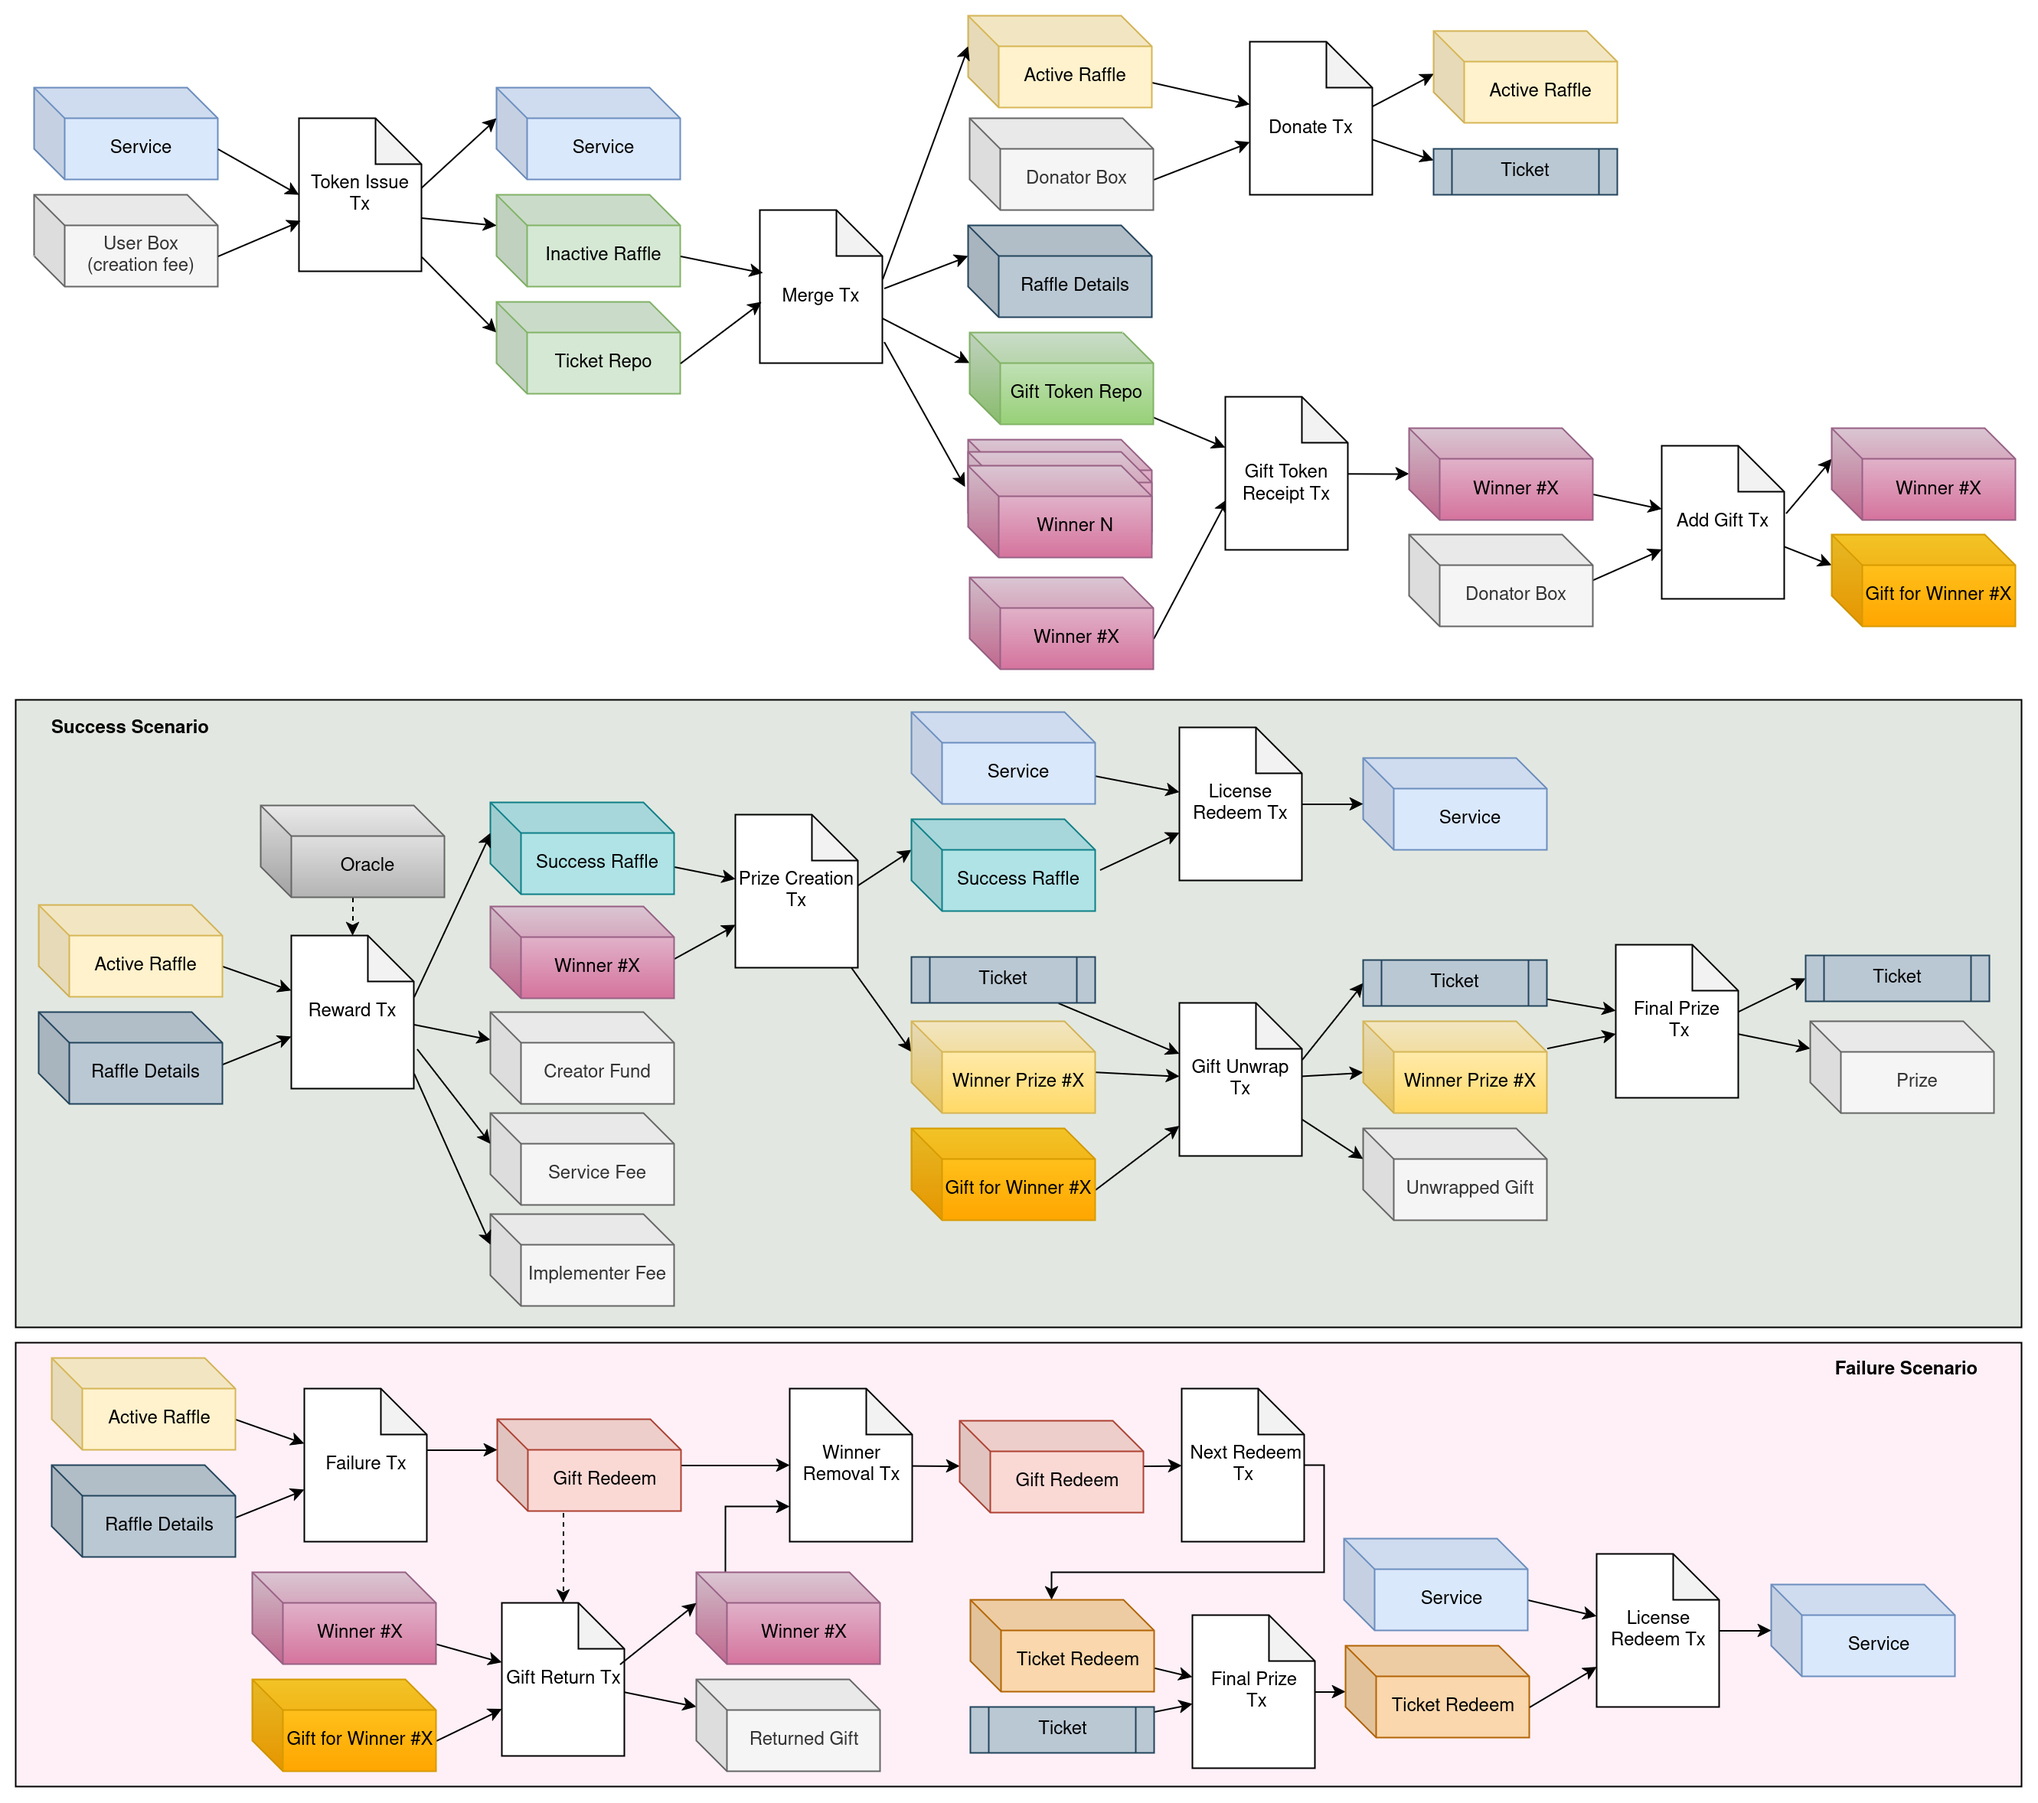
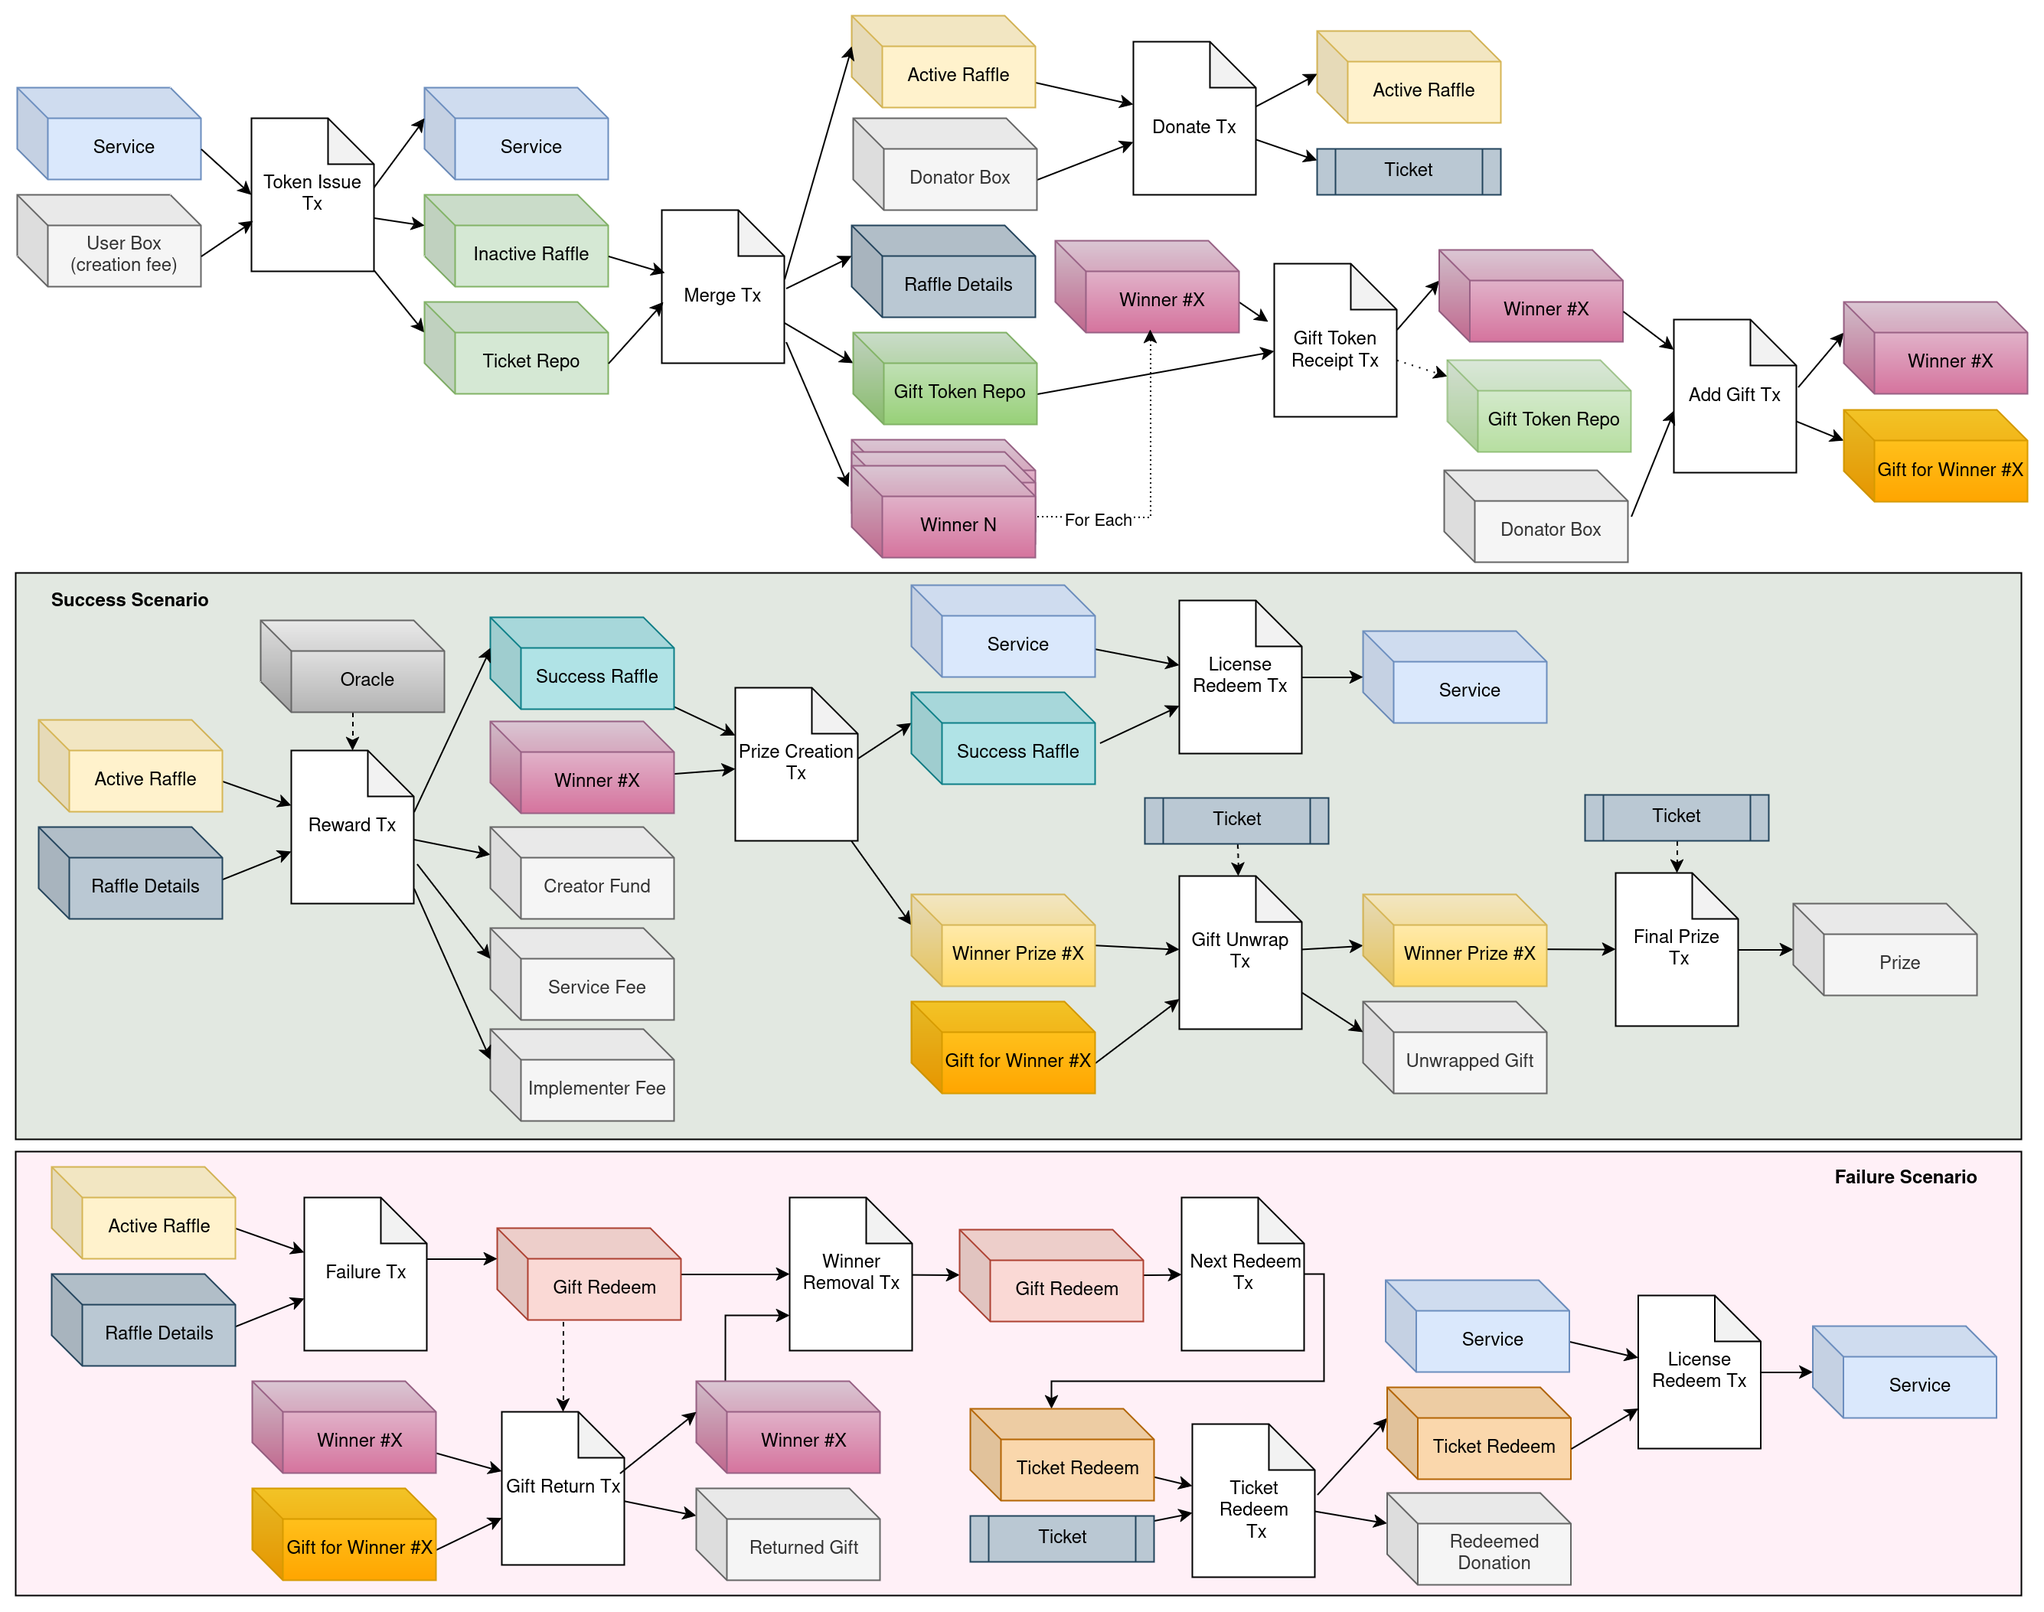
Update procedure images

diff --git a/packages/contracts/README.md b/packages/contracts/README.md
@@ -96,7 +96,7 @@ When creating a new raffle, the creator can specify the number of winners, and t
 The winner boxes are activated after they receive their gift tokens.
 
 <p align="center">
-<img src="images/Gift_Token_receipt.png" width="500">
+<img src="images/Gift_Token_Receipt.png" width="500">
 </p>
 
 ### Phase II: New Gifts
